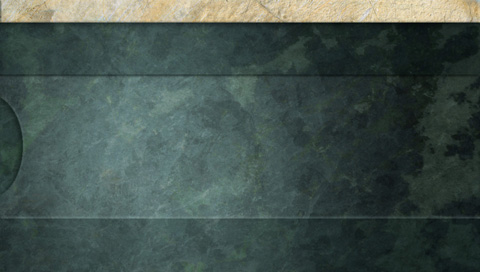
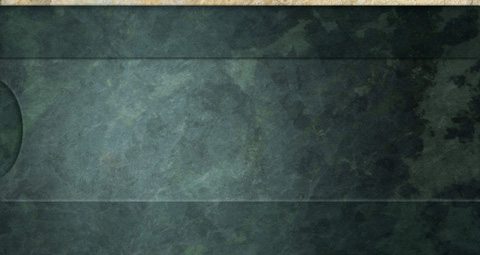
Jeck - Final theme updates. Reverted backdrop.jpg to 255H, expanded wood.png to 32H, though only 28 are used (to prevent gray box issue). Also minor change to OptionItem.cpp so that themeinfo.txt loads on Default theme.
git-svn-id: http://wagic.googlecode.com/svn/trunk@1172 01922e74-a4c3-11dd-a5cd-697bfd0a0cef

diff --git a/projects/mtg/src/GuiBackground.cpp b/projects/mtg/src/GuiBackground.cpp
@@ -6,7 +6,7 @@ GuiBackground::GuiBackground()
 {
   JTexture* texture = resources.GetTexture("backdrop.jpg");
   if (texture)
-    quad = NEW JQuad(texture, 0, 0, 480, 272);
+    quad = NEW JQuad(texture, 0, 0, 480, 255);
   else
     {
       quad = NULL;
@@ -22,5 +22,5 @@ GuiBackground::~GuiBackground()
 void GuiBackground::Render()
 {
   JRenderer* renderer = JRenderer::GetInstance();
-  renderer->RenderQuad(quad, 0, 0);
+  renderer->RenderQuad(quad, 0, 18);
 }

diff --git a/projects/mtg/src/OptionItem.cpp b/projects/mtg/src/OptionItem.cpp
@@ -677,7 +677,10 @@ void OptionTheme::Render(){
   if(!bChecked){
     author = "";
     bChecked = true;
-    sprintf(buf,RESPATH"/themes/%s/themeinfo.txt",selections[value].c_str());
+    if(selections[value] == "Default")
+      sprintf(buf,RESPATH"/graphics/themeinfo.txt");
+    else
+      sprintf(buf,RESPATH"/themes/%s/themeinfo.txt",selections[value].c_str());
     std::ifstream file(buf);
     if(file){
       string temp;

diff --git a/projects/mtg/src/GuiFrame.cpp b/projects/mtg/src/GuiFrame.cpp
@@ -5,7 +5,7 @@
 GuiFrame::GuiFrame()
 {
   if (resources.GetTexture("wood.png"))
-    wood = resources.RetrieveQuad("wood.png", 0, 0, SCREEN_WIDTH, 16);
+    wood = resources.RetrieveQuad("wood.png", 0, 0, SCREEN_WIDTH, 28);
   else
     {
       wood = NULL;
